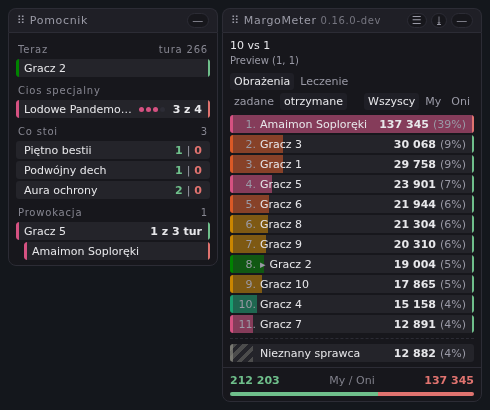
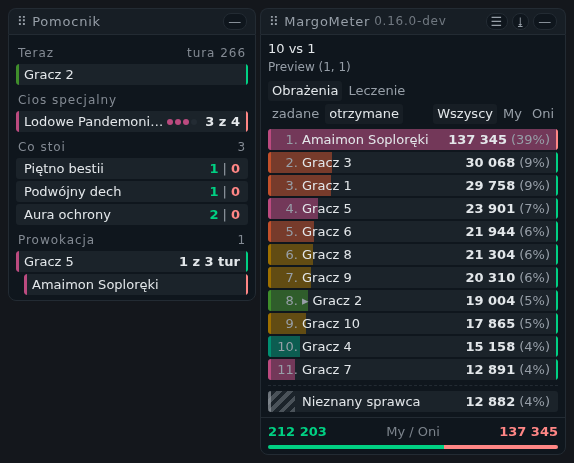
docs(changelog,screenshots): the panel's new ground and type, said and shown
The six pictures are retaken at cc481f2, which is the first commit where both halves of this
round stand: the cooler ground and 13px type, and the card placed at the width it draws. The
set taken at 596f95f would have photographed the overlap — the card lying 43px over the rows
under it — and that is a state the panel can be in but never one it should be shown in.

Every one was opened before it was committed, which is what DESIGN.md asks and grants nobody
an exemption from. What they show: the panel now reads at a size of its own beside the game's
own window rather than as one more of its panels, and the card ends where the panel begins.

The changelog entries are the two changes a player will notice and the one fix they would
have hit. They say what moved and what it was before, in the file's own register: the kinds
run Nowość, Zmiana, Poprawka, and the three new ones are sorted into that run rather than
appended.

Claude-Session: https://claude.ai/code/session_01WKCREC4zNKLXdhbqjEXj13

diff --git a/CHANGELOG.md b/CHANGELOG.md
@@ -59,6 +59,16 @@ Wszystkie istotne zmiany w tym dodatku są tu notowane.
   na półce tak samo jak dzisiejsza. Trwająca walka dalej stoi jako „teraz". Na nazwę miejsca zostaje
   przez to mniej miejsca i dłuższa bywa ucięta — pełną widać w okienku wiersza.
 
+- **Zmiana** — Panel jest większy. Pismo urosło z 11 na 13 pikseli, wiersz z 18 na 21, a sam panel z
+  260 na 306 pikseli. Do tej pory panel miał dokładnie tę wielkość co okna gry i zlewał się z nimi;
+  teraz czyta się go jednym spojrzeniem. Karta rośnie razem z nim. Obiecane jedenaście wierszy nadal
+  wchodzi na każdym oknie wyższym niż 640 pikseli.
+
+- **Zmiana** — Nowe kolory. Tło panelu jest ciemniejsze i chłodniejsze, a wszystkie barwy —
+  profesji, stron i znaków — rozsunięte tak, żeby żadne dwie nie wyglądały tak samo. Wcześniej
+  ostrzeżenie o niepełnej liczbie miało co do bitu ten sam kolor co Tropiciel, a znak awarii panelu
+  nie odcinał się dość mocno od paska pod nim.
+
 - **Zmiana** — Karta postaci nie pokazuje już największego ciosu, ani zadanego, ani przyjętego. Ta
   liczba stała pod nagłówkiem o ciosach, a podnosiły ją też obrażenia, których gra nigdy ciosem nie
   nazwała — bywała więc większa od najmocniejszego ciosu, jaki w walce padł. Zostaje w pliku
@@ -82,10 +92,14 @@ Wszystkie istotne zmiany w tym dodatku są tu notowane.
   bywała od niej mniejsza, bo obejmuje tylko te ciosy, przy których gra taką liczbę podała —
   wyglądało to na błąd, a było zestawieniem dwóch liczb liczonych z czegoś innego. Zdanie pod
   liczbami mówi teraz wprost, czego gra nie podaje: ile obrażeń zjadł pancerz i odporność.
+
 - **Zmiana** — Karta nie pokazuje już liczb, które dla danej postaci są zerem. Zostaje ta, o którą
   pytasz ekranem, nawet gdy wynosi zero — bo to jest odpowiedź na twoje pytanie.
+
 - **Zmiana** — Liczniki na karcie, na przykład ile razy zadziałało przebicie, mają teraz przed sobą
   `×`. Stały w tej samej kolumnie co obrażenia i nic nie mówiło, które są czym.
+
+- **Poprawka** — Karta nie zasłania już wierszy, nad którymi stoi.
 
 - **Poprawka** — Głęboka rana zadana bronią pomocniczą trafia teraz na kartę postaci, tak samo jak
   ta z broni głównej i pod tą samą nazwą. Wcześniej cios, który ją zostawił, wyglądał na karcie tak,
